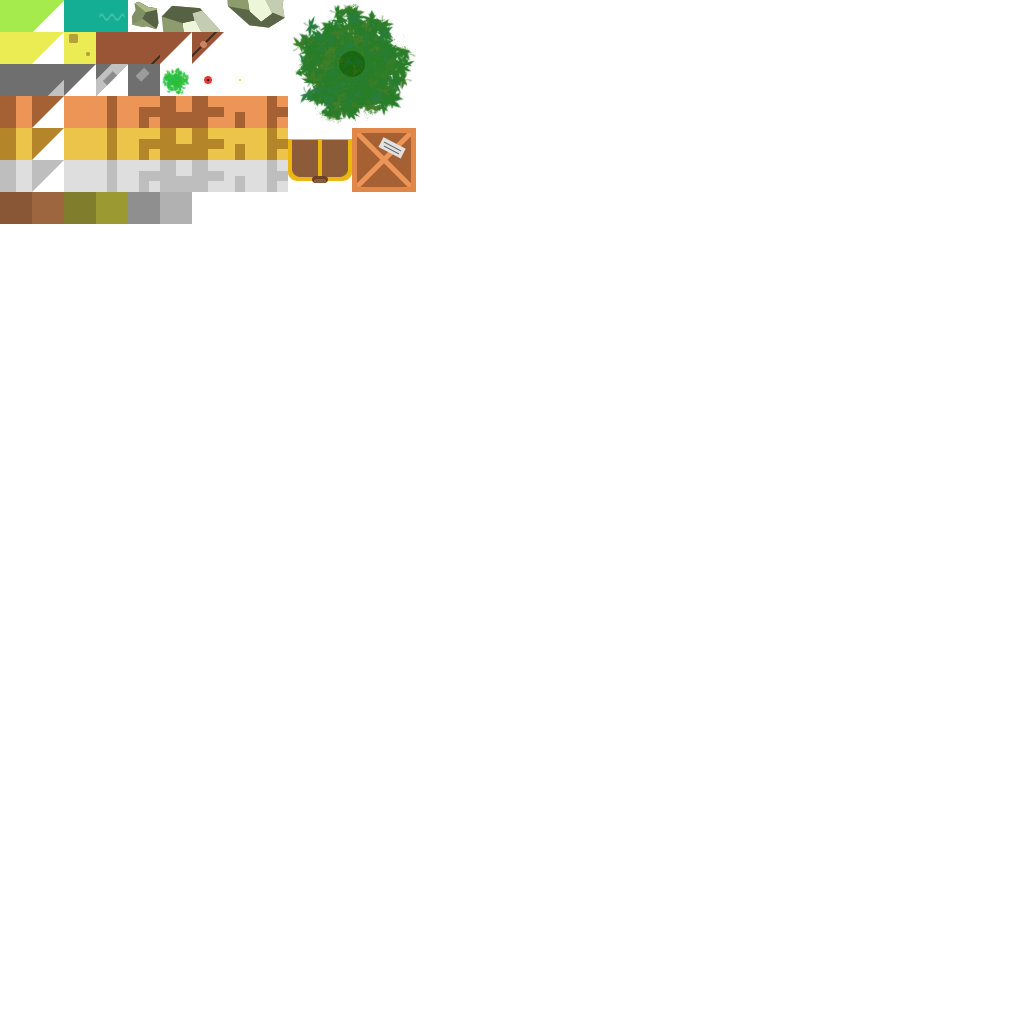
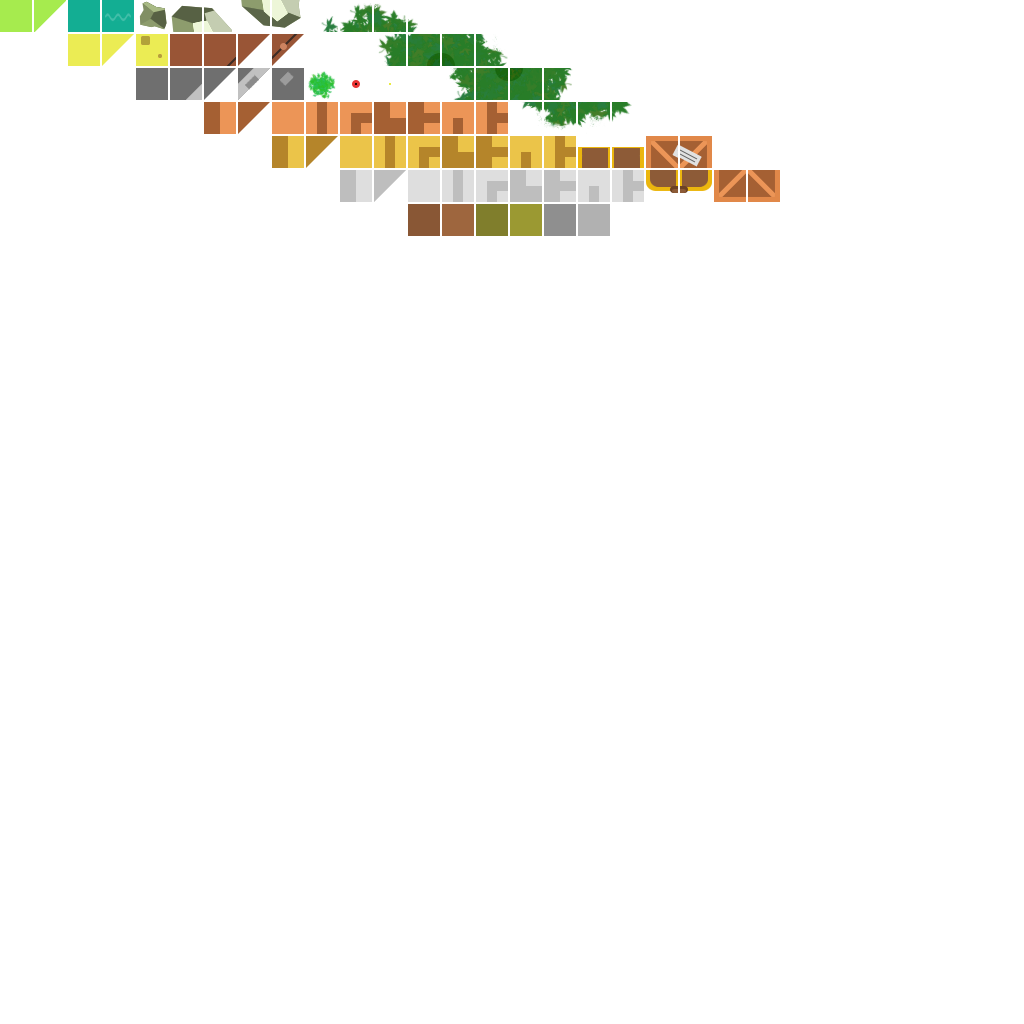
Fix a bug that caused the tiled map to show artifacts

Changed region(s): [[0.0, 0.0, 0.7812, 0.25]]

diff --git a/core/assets/tiles/tilemap.tsx b/core/assets/tiles/tilemap.tsx
@@ -1,3 +1,4 @@
-<tileset name="tilemap" tilewidth="32" tileheight="32" tilecount="16" columns="16">
+<?xml version="1.0" encoding="UTF-8"?>
+<tileset name="tilemap" tilewidth="32" tileheight="32" tilecount="16" columns="16" spacing="2">
  <image source="tilemap.png" width="512" height="32"/>
 </tileset>

diff --git a/core/src/com/bressio/rendezvous/events/WorldContactListener.java b/core/src/com/bressio/rendezvous/events/WorldContactListener.java
@@ -32,7 +32,6 @@ public class WorldContactListener implements ContactListener {
                 }
                 break;
             case BULLET_TAG | DEFAULT_TAG:
-            case BULLET_TAG | BUILDING_TAG:
             case BULLET_TAG | LOOT_TAG:
                 if(fixtureA.getFilterData().categoryBits == BULLET_TAG) {
                     ((Bullet) fixtureA.getUserData()).destroy();

diff --git a/core/src/com/bressio/rendezvous/entities/projectiles/Bullet.java b/core/src/com/bressio/rendezvous/entities/projectiles/Bullet.java
@@ -39,7 +39,7 @@ public class Bullet extends Sprite {
         position = match.getPlayer().getBody().getPosition();
         radius = 5;
         categoryBits = BULLET_TAG;
-        maskBits =  (short) (DEFAULT_TAG | BUILDING_TAG | LOOT_TAG | PLAYER_TAG);
+        maskBits =  (short) (DEFAULT_TAG | LOOT_TAG | PLAYER_TAG);
     }
 
     public void moveForward() {

diff --git a/core/src/com/bressio/rendezvous/scenes/Match.java b/core/src/com/bressio/rendezvous/scenes/Match.java
@@ -59,7 +59,7 @@ public class Match implements Screen {
     private OrthogonalTiledMapRenderer renderer;
     private OrthogonalTiledMapRenderer overRenderer;
     private Box2DDebugRenderer collisionDebugRenderer;
-    private float cameraZoom = 1;
+    private float cameraZoom = 10;
 
     // world
     private World world;
